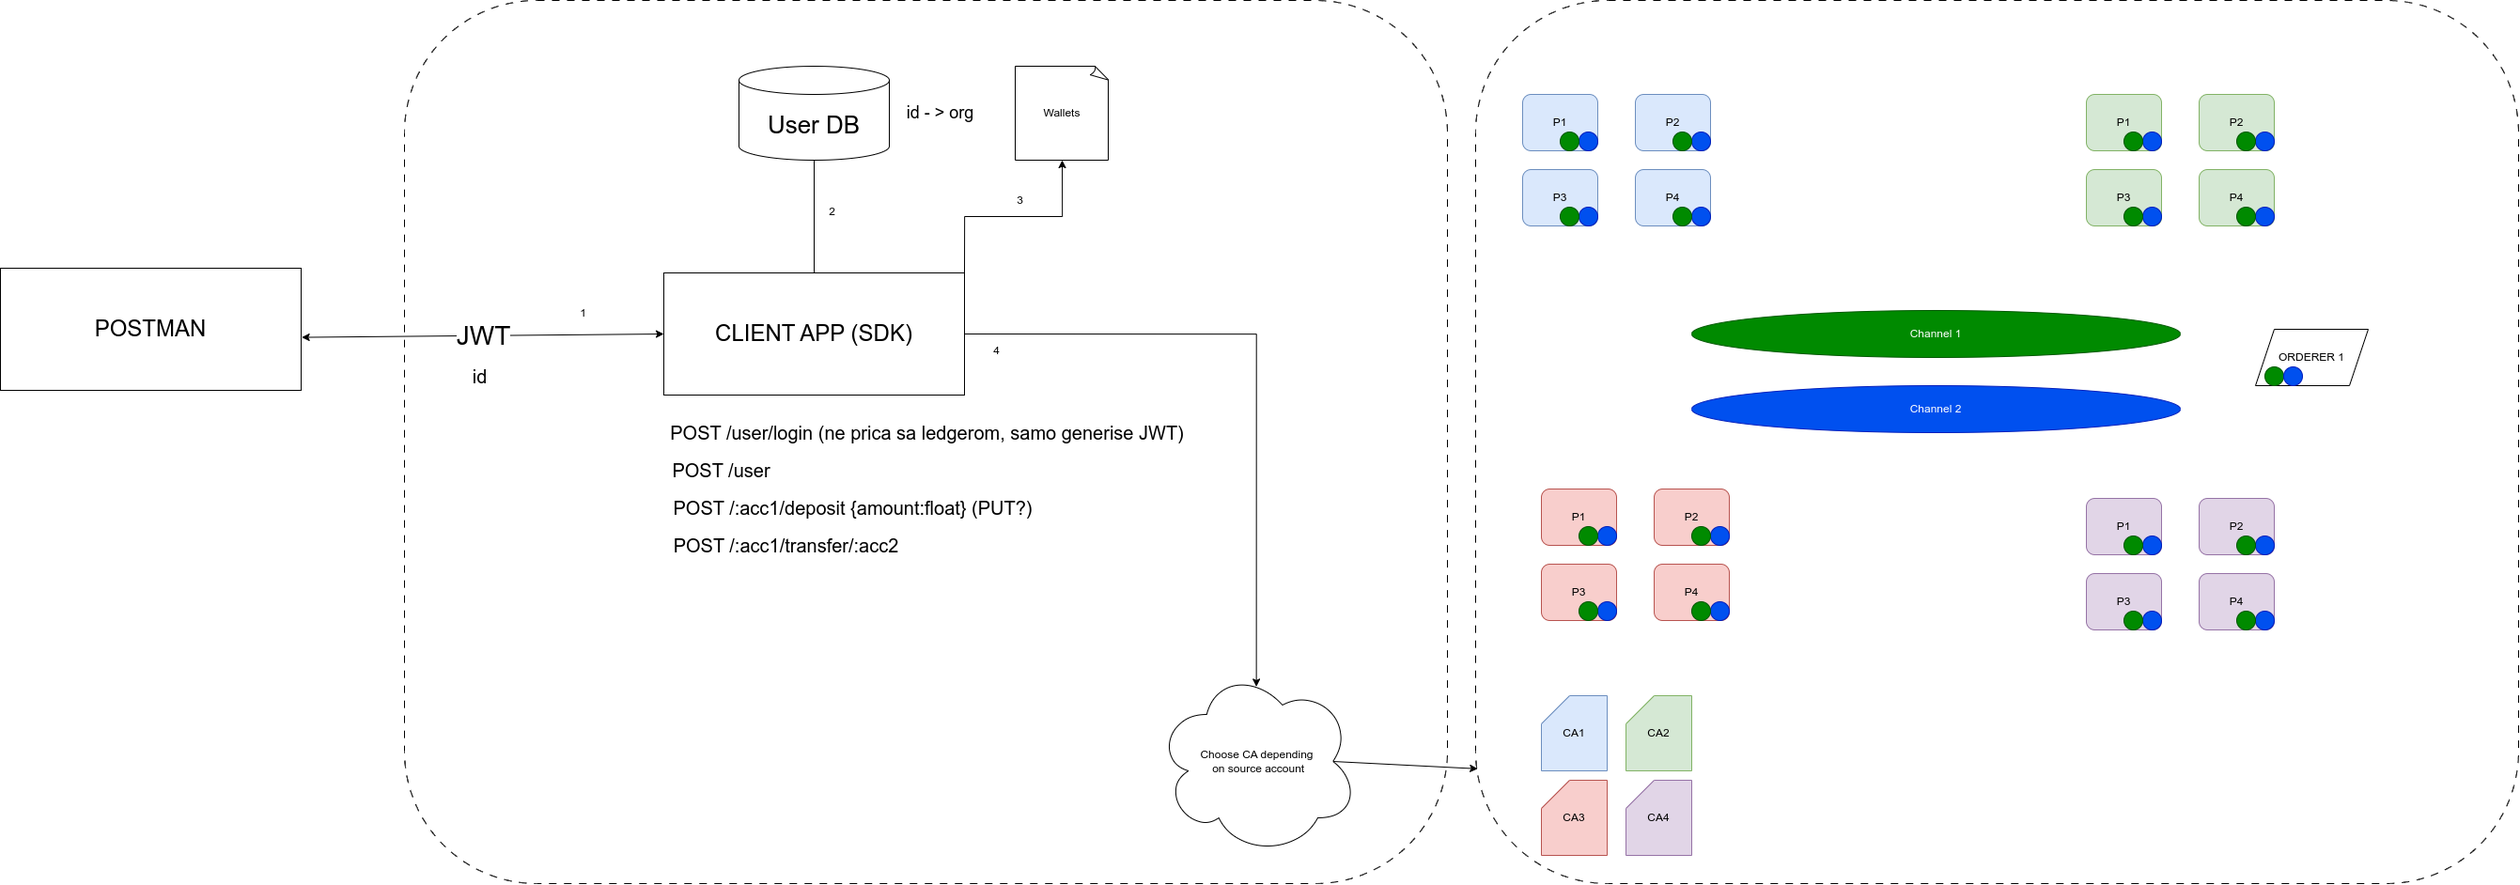
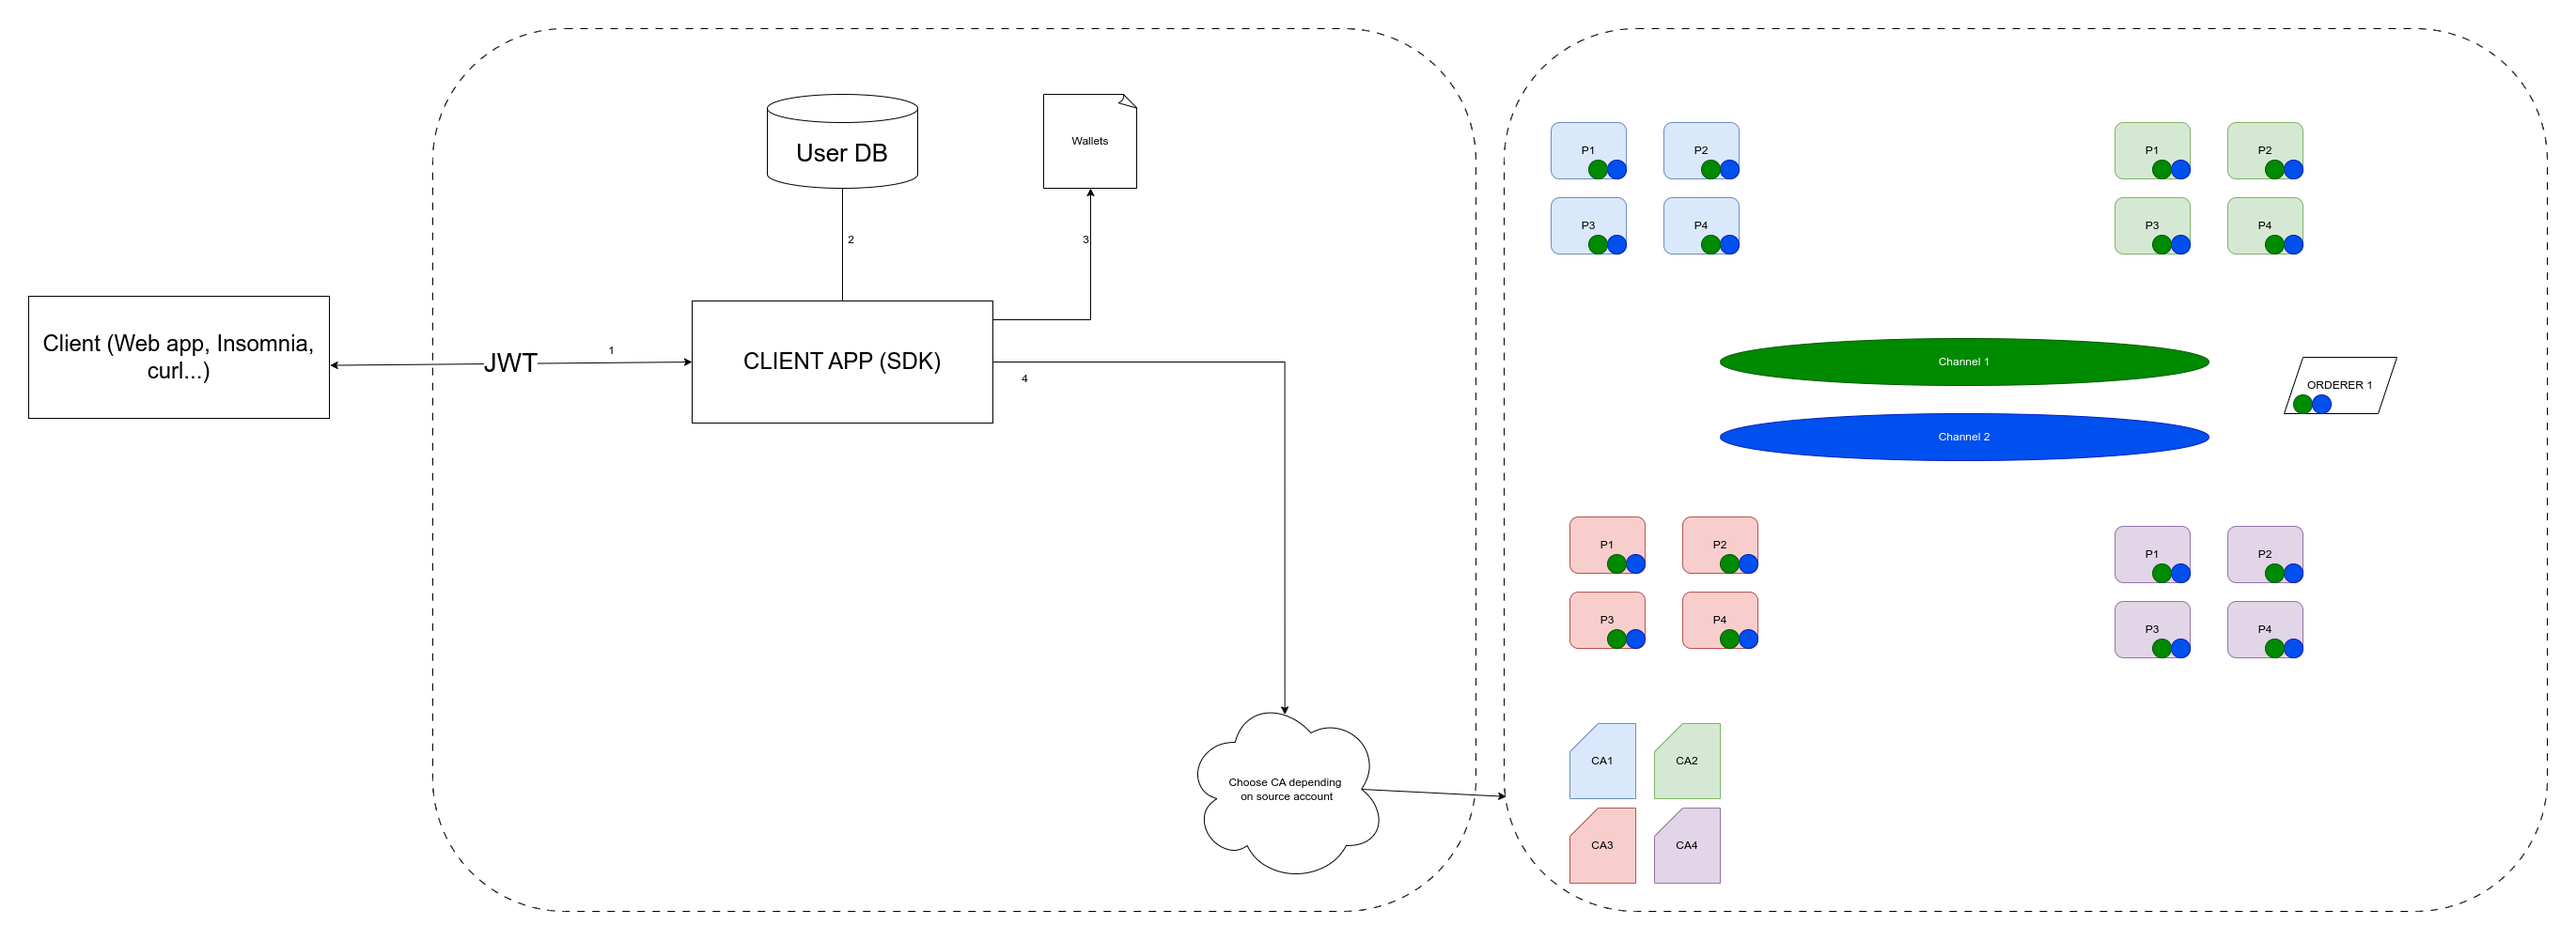
Updated README

diff --git a/README.md b/README.md
@@ -1,0 +1,50 @@
+# Hyperledger Fabric Bank 
+
+This repository contains the source code for our Hyperledger Bank project. The project aims to implement a blockchain-based banking system using Hyperledger Fabric.
+
+## Project Overview
+
+The Hyperledger Bank project leverages Hyperledger Fabric to create a decentralized banking system. It allows users to perform various banking operations securely using blockchain technology.
+
+## Architecture
+
+![Hyperledger Bank Architecture](docs/infrastructure.png)
+
+The architecture consists of several components:
+
+1. **Hyperledger Fabric Network**: The core infrastructure built using Hyperledger Fabric, which includes 4 CAs, 4 organizations and 4 peer nodes per organization (every peer is commiting and endorsing peer), orderer node, and two channels.
+2. **Smart Contracts (Chaincode)**: Business logic written and tested in golang chaincode to define the banking operations and rules.
+3. **Client Application**: HTTP web server that exposes API endpoints for banking operations, which uses golang Hyperledger Fabric SDK for communication with Hyperledger network.
+
+## Getting Started
+
+To get started with the Hyperledger Bank project, follow these steps:
+
+### Starting the Ledger
+
+1. Clone this repository to your local machine.
+2. Navigate to the `infrastructure` directory.
+3. Execute `run.sh` script (it will take approximately 12 minutes to setup completely)
+
+### Starting the Client App
+
+1. Navigate to the `app` directory.
+2. Export environment variables stated in .env file
+3. Run the app with command `go run .`
+
+## Endpoints
+
+Here are the endpoints available for interacting with the Hyperledger Bank system:
+
+- **POST /login/:username**: Login (test admin usernames start with s, and common user usernames with u, e.g. s1, u5)
+- **POST /create-bank-account/channel1**: Create bank account for user
+- **POST /transfer-money/channel1**: Transfer money from account A to account B with possible currency conversion using average exchange rate
+- **POST /money-deposit/channel1**: Deposit money into an account.
+- **POST /money-withdrawal/channel1**: Withdraw money from an account.
+- **POST /add-user/channel1**: Create new user account
+- **GET /search/channel1/:by/:param1/:param2**: Queries user accounts based on various parameters
+- **GET /search-accounts/channel1/:bank-id/:currency/:balance-thresh**: Search for accounts based on specified criteria.
+- **GET /max-account/channel1/:bank-id/:currency**: Retrieves the maximum account balance per currency in chosen bank.
+
+
+All endpoints with example POST bodies can be also imported into [Insomnia](https://insomnia.rest/) from `app/app_insomnia_endpoints.yaml`
